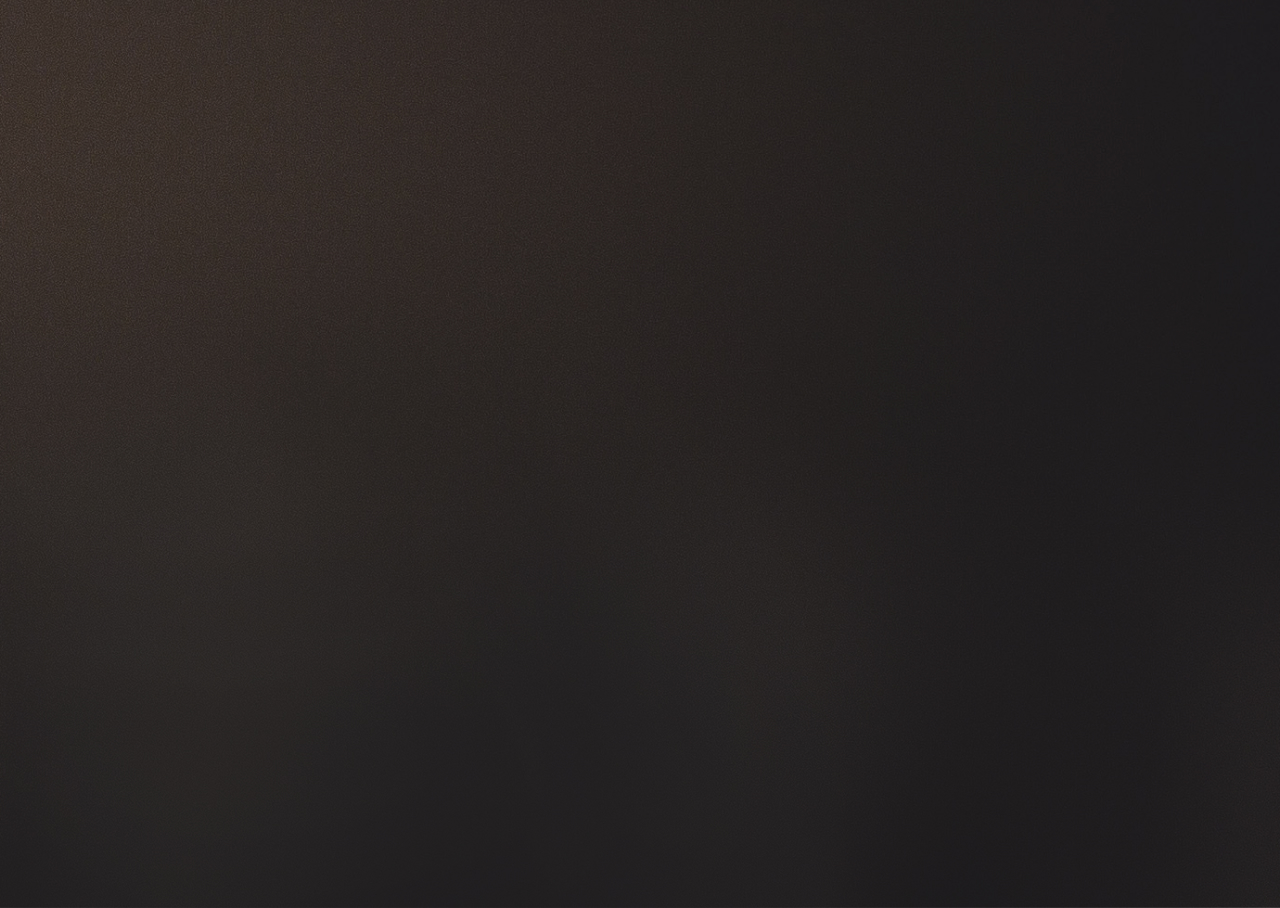
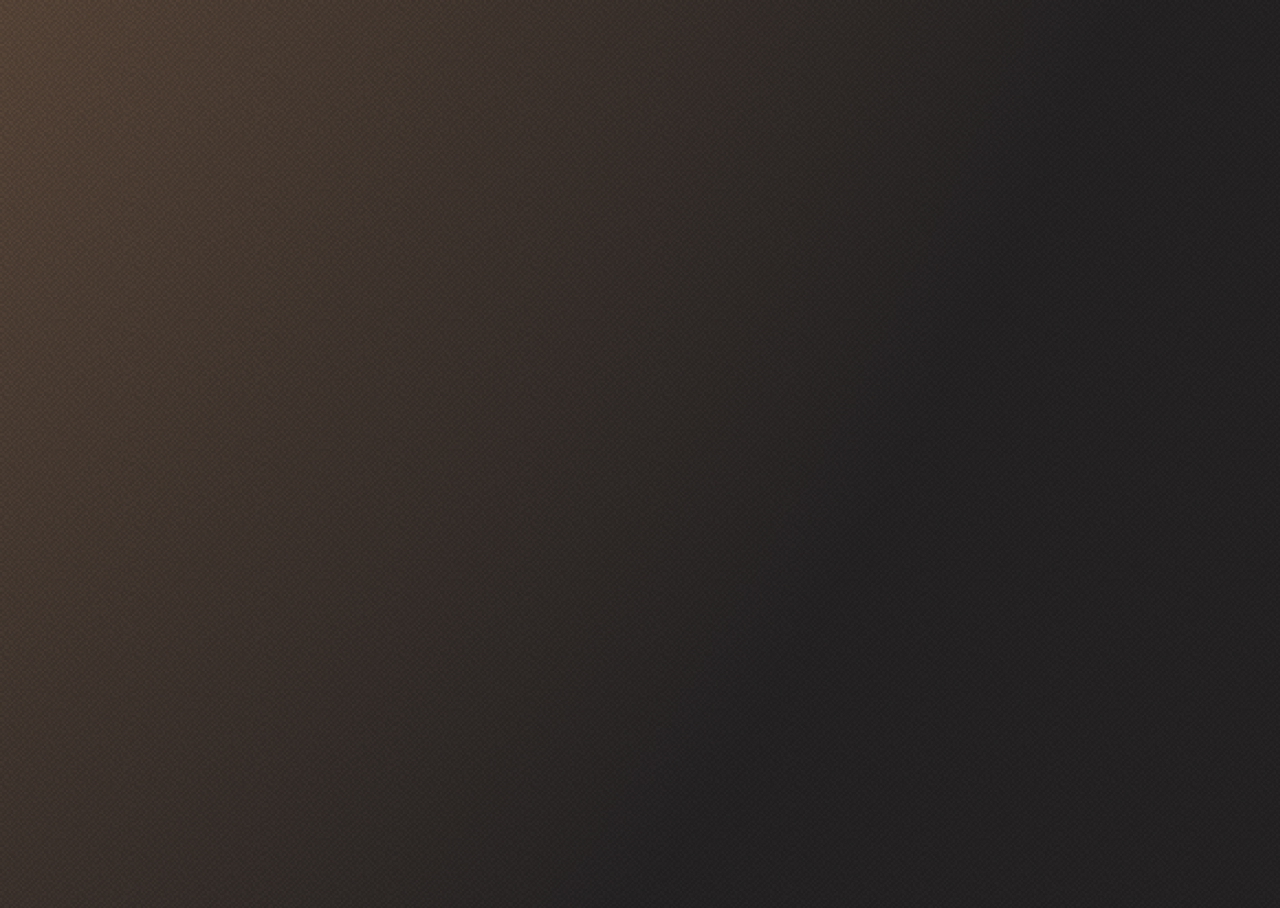
feat: add welcome page css

Changed region(s): [[0.0, 0.0, 0.1562, 1.0]]

diff --git a/shelter/pages/main/style.css b/shelter/pages/main/style.css
@@ -366,6 +366,9 @@
     background-position: center center;
     position: relative;
 }
+.wrapper1 {
+    background-image: url(/eugenemusic-JSFE2022Q1/shelter/assets/images/start-screen-background.jpg);
+}
 /* .dark-wrapper:before {
     content: "";
     position: absolute;
@@ -437,6 +440,9 @@ align-items: center;
 /* color-dark-s */
 
 color: #CDCDCD;
+width: 460px;
+height: 72px;
+margin-bottom: 42px;
 }
 .logo_subtitle {
     font-family: 'Arial';
@@ -453,6 +459,28 @@ color: #CDCDCD;
     /* color-light-xl */
     
     color: #FFFFFF;
+}
+.button {
+    width: 207px;
+    height: 52px;
+/* color-primary */
+    background: #F1CDB3;
+    border-radius: 100px;
+    font-family: 'Georgia';
+    font-style: normal;
+    font-weight: 400;
+    font-size: 17px;
+    line-height: 130%;
+/* identical to box height, or 22px */
+    letter-spacing: 0.06em;
+/* color-dark-3xl */
+    color: #292929;
+    border: 0;
+}
+.button:hover {
+    background: #FDDCC4;
+    cursor: pointer;
+
 }
 .content2 {
     font-family: 'Arial';
@@ -540,8 +568,18 @@ color: #CDCDCD;
     justify-content: space-between;
 }
 .header {
-    height: 60px;
     padding: 60px 0;
+}
+.title1 {
+    padding-top: 163px;
+    
+}
+.title1 h2 {
+    width: 310px;
+    padding-bottom: 42px;
+}
+.h2 {
+    margin: 0;
 }
 .logo_subtitle {
     padding-left: 4px;

diff --git a/shelter/pages/main/index.html b/shelter/pages/main/index.html
@@ -39,7 +39,7 @@
                         extremely
                         wide and open heart. He or she will love you more than anybody else in the world, you will see!
                     </div>
-                    <button class="button">Make a friend</button>
+                    <button class="button button1">Make a friend</button>
 
                 </div>
                 <img class="" src="../../assets/images/start-screen-puppy.png">
